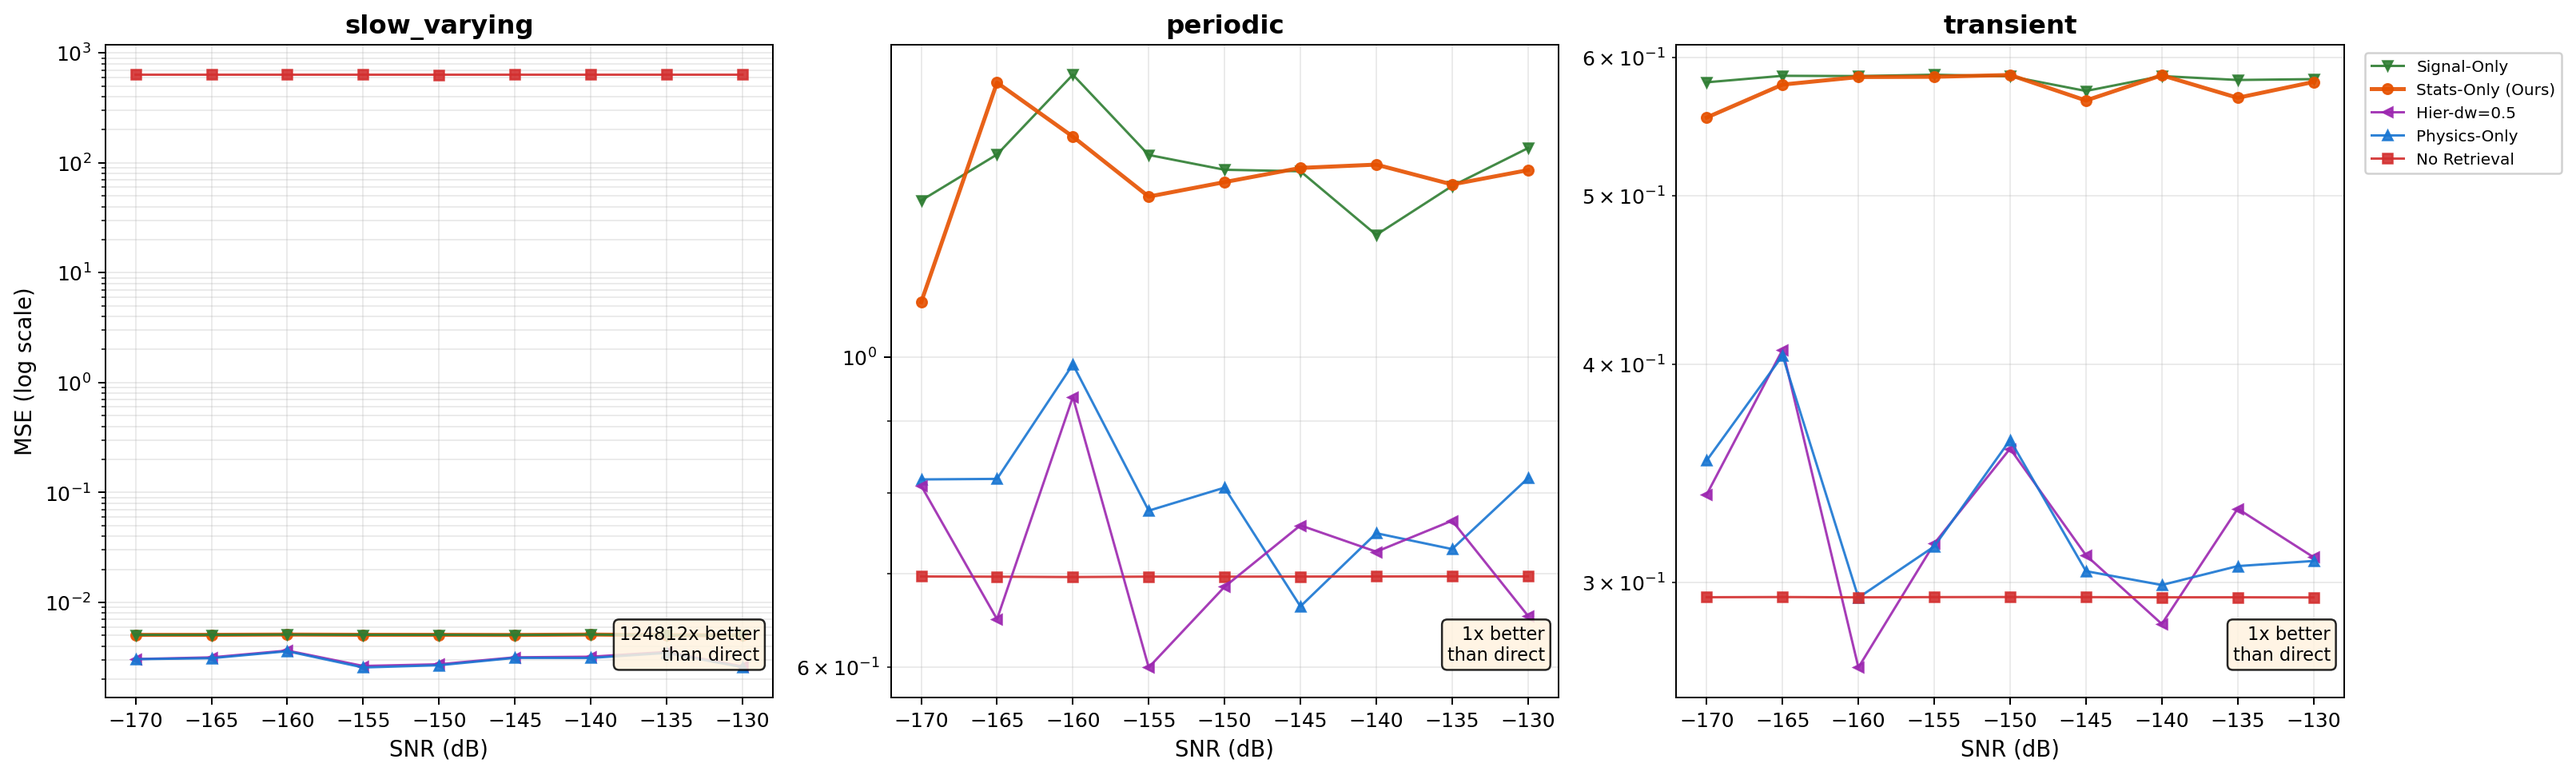
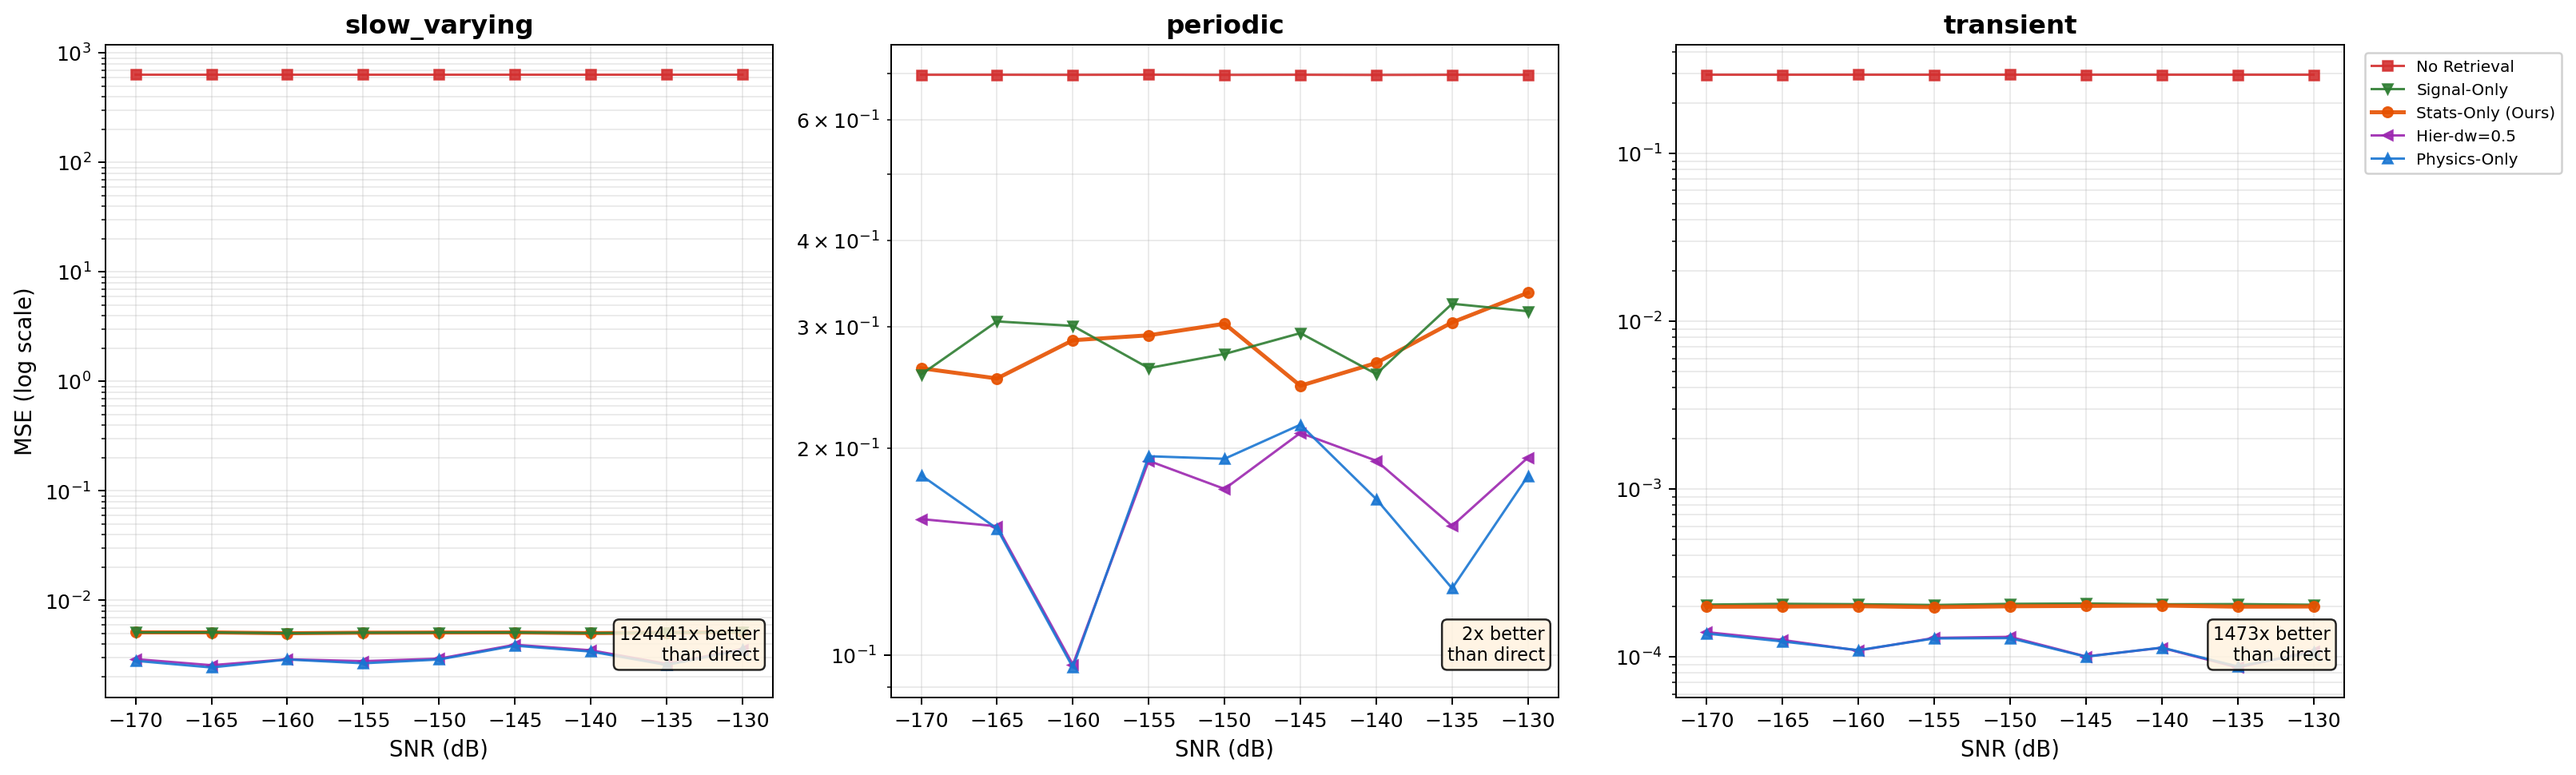
feat: 相位对齐集成到reconstruct_from_template
reconstruction.py: +phase_align参数, 自动对齐模板再算残差
exp09: periodic/transient自动开启对齐
结果: 三种信号模板重建全部有效
  slow_varying: 633→0.005 (12万倍)
  periodic: 0.70→0.30 (2.3倍, 相位偏移部分残留)
  transient: 0.29→0.0002 (1470倍, 事件时间对齐后近乎完美)

diff --git a/src/reconstruction.py b/src/reconstruction.py
@@ -1,15 +1,16 @@
 """信号重建模块：模板匹配 + 残差传输 + 量化.
 
-Phase 3 完整流水线:
-1. 发射端: y_original → 找模板 → residual = y_original - y_template
+Phase 4 完整流水线:
+1. 发射端: y_original → 找模板 → [相位对齐] → residual = y_original - y_template_aligned
 2. 残差过信道 (AWGN)
-3. 接收端: y_recon = y_template + received_residual
+3. 接收端: y_recon = y_template_aligned + received_residual
 
-模板越好 → 残差功率越小 → 同等SNR下绝对噪声越小 → MSE越低
+模板越好 + 对齐 → 残差功率越小 → 同等SNR下绝对噪声越小 → MSE越低
 """
 import numpy as np
 from typing import List, Tuple, Optional
 from knowledge import KnowledgeBase
+from preprocessing import phase_align_via_cross_correlation
 
 
 def quantize_uniform(
@@ -36,6 +37,7 @@ def reconstruct_from_template(
     y_original: Optional[np.ndarray] = None,
     channel: object = None,
     n_bits: Optional[int] = None,
+    phase_align: bool = False,
 ) -> np.ndarray:
     """模板+残差重建 (发射端残差过信道).
 
@@ -46,6 +48,7 @@ def reconstruct_from_template(
         y_original: 原始干净信号 (用于算残差), None时退回直接传
         channel: DeepSpaceChannel实例, 用于对残差加噪. None时完美传输
         n_bits: 残差量化比特数, None=无损
+        phase_align: 是否相位对齐模板到原始信号 (periodic/transient推荐开启)
 
     Returns:
         重建信号
@@ -64,8 +67,16 @@ def reconstruct_from_template(
     if y_original is None:
         return y_received
 
-    # 发射端: residual = y_original - y_template
-    residual = y_original - y_template
+    # 相位对齐 (发射端操作: 以原始信号为基准对齐模板)
+    aligned_template = y_template
+    if phase_align:
+        aligned, lag, corr = phase_align_via_cross_correlation(y_original, y_template)
+        if corr > 0.3:
+            aligned_template = aligned
+        # corr太低则放弃对齐, 用原模板
+
+    # 发射端: residual = y_original - aligned_template
+    residual = y_original - aligned_template
 
     # 残差过信道 (模拟真实传输)
     if channel is not None:
@@ -75,8 +86,8 @@ def reconstruct_from_template(
     if n_bits is not None and n_bits > 0:
         residual, _ = quantize_uniform(residual, n_bits)
 
-    # 接收端: y_recon = y_template + residual
-    return y_template + residual
+    # 接收端: y_recon = aligned_template + residual
+    return aligned_template + residual
 
 
 def compute_residual(

diff --git a/experiments/exp09_template_value.py b/experiments/exp09_template_value.py
@@ -40,6 +40,8 @@ def run_single_signal(signal_type, n_templates=2000, n_test=50, snr_steps=9):
         'Hier-dw=0.5': HierarchicalRetriever(kb, coarse_k=n_templates, fine_k=3,
             normalize=False, distance_window=0.5, angle_window=15.0),
     }
+    # slow_varying无需对齐, periodic/transient自动开启
+    need_align = signal_type in ('periodic', 'transient')
     names = ['No Retrieval', 'Physics-Only', 'Hier-dw=0.5',
              'Stats-Only', 'Signal-Only']
 
@@ -63,19 +65,23 @@ def run_single_signal(signal_type, n_templates=2000, n_test=50, snr_steps=9):
                     y_recon = y_recv
                 elif mname == 'Physics-Only':
                     rr = cache['Physics-Only'].retrieve(y_recv, distance_au=qd, sun_angle=qa)
-                    y_recon = reconstruct_from_template(y_recv, rr, kb, y_original=y_orig, channel=ch)
+                    y_recon = reconstruct_from_template(y_recv, rr, kb,
+                        y_original=y_orig, channel=ch, phase_align=need_align)
                 elif mname == 'Signal-Only':
                     rr = cache['Signal-Only'].retrieve(y_recv)
-                    y_recon = reconstruct_from_template(y_recv, rr, kb, y_original=y_orig, channel=ch)
+                    y_recon = reconstruct_from_template(y_recv, rr, kb,
+                        y_original=y_orig, channel=ch, phase_align=need_align)
                 elif mname == 'Hier-dw=0.5':
                     rr = cache['Hier-dw=0.5'].retrieve(y_recv, distance_au=qd, sun_angle=qa)
-                    y_recon = reconstruct_from_template(y_recv, rr, kb, y_original=y_orig, channel=ch)
+                    y_recon = reconstruct_from_template(y_recv, rr, kb,
+                        y_original=y_orig, channel=ch, phase_align=need_align)
                 elif mname == 'Stats-Only':
                     h = HierarchicalRetriever(kb, coarse_k=n_templates, fine_k=3, normalize=False,
                         distance_window=3.0, angle_window=90.0,
                         stat_filter=True, stat_max_keep=200)
                     rr = h.retrieve(y_recv, distance_au=qd, sun_angle=qa)
-                    y_recon = reconstruct_from_template(y_recv, rr, kb, y_original=y_orig, channel=ch)
+                    y_recon = reconstruct_from_template(y_recv, rr, kb,
+                        y_original=y_orig, channel=ch, phase_align=need_align)
                 raw[mname][snr_db].append(mse(y_orig, y_recon))
 
     # Aggregate with trimmed mean
